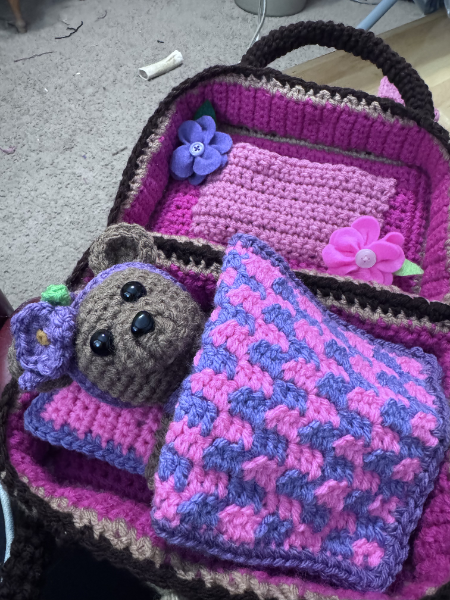
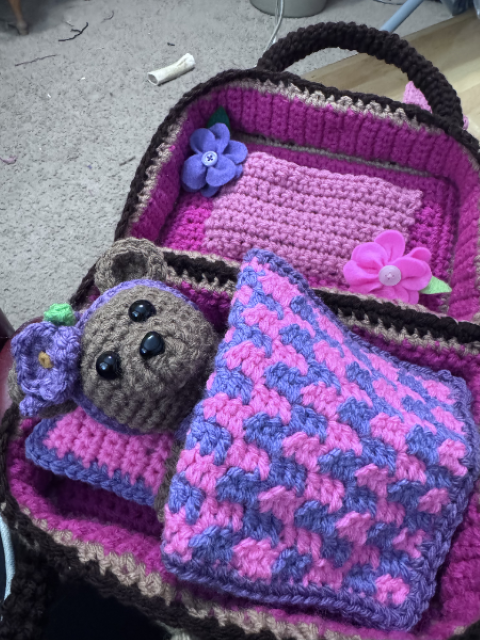
Manually resized images for optimization. Fixed descriptions.

diff --git a/src/app/api/images/route.ts b/src/app/api/images/route.ts
@@ -12,13 +12,13 @@ export async function GET() {
   const res = await fetch(`${process.env.NEXT_PUBLIC_BASE_URL}/crafts/manifest.json`);
   const imageFilesRaw: string[] = await res.json();
 
-  // Filter out manifest.json itself (if present)
   const imageFiles = imageFilesRaw.filter((file) => file !== 'manifest.json');
 
   const groupedImages = imageFiles.reduce<Record<string, GroupedImage>>((acc, file) => {
-    const baseName = file
-      .replace(/^featured-/, '')
-      .replace(/\d+\.(jpg|jpeg|png|JPEG)$/i, '');
+    const cleanName = file
+      .replace(/^featured-/, '')           // remove "featured-" prefix
+      .replace(/\.(jpg|jpeg|png)$/i, '');  // remove file extension
+    const baseName = cleanName.replace(/-\d+$/, ''); // remove trailing "-1", "-2", etc.
 
     if (!acc[baseName]) {
       acc[baseName] = {
@@ -38,12 +38,11 @@ export async function GET() {
   const images = Object.entries(groupedImages).map(([baseName, data]) => ({
     images: data.images,
     title: baseName
-      .replace(/\.(jpg|jpeg|png|JPEG)$/i, '')
       .replace(/-/g, ' ')
       .split(' ')
       .map((word) => word.charAt(0).toUpperCase() + word.slice(1))
       .join(' '),
-    description: descriptions[baseName + '.png'] || 'Coming soon...',
+    description: descriptions[baseName] || 'Coming soon...',
     featured: data.featured,
   }));
 

diff --git a/data/descriptions.ts b/data/descriptions.ts
@@ -1,5 +1,5 @@
 export const descriptions: Record<string, string> = {
-    "assorted-dolls.png": "A lovely collection of handmade dolls including...",
-    "suitcase-pink.png": "Vintage-style decorated suitcase in pink...",
-    // Note: use the filename WITHOUT the 'featured-' prefix
+  "assorted-dolls": "A lovely collection of handmade dolls including various characters.",
+  "suitcase-pink": "Vintage-style decorated suitcase in pink, adorned with lace and embellishments.",
+  // Add more descriptions using the base name only (no featured-, no -1)
 };

diff --git a/src/app/globals.css b/src/app/globals.css
@@ -322,11 +322,6 @@ footer {
   gap: 5px;
 }
 
-.footer-content:hover {
-  opacity: 0.2;
-  animation: fadeInOut 0.2s ease;
-}
-
 /* Under Construction Banner */
 .ribbon {
   opacity: 0.5;
